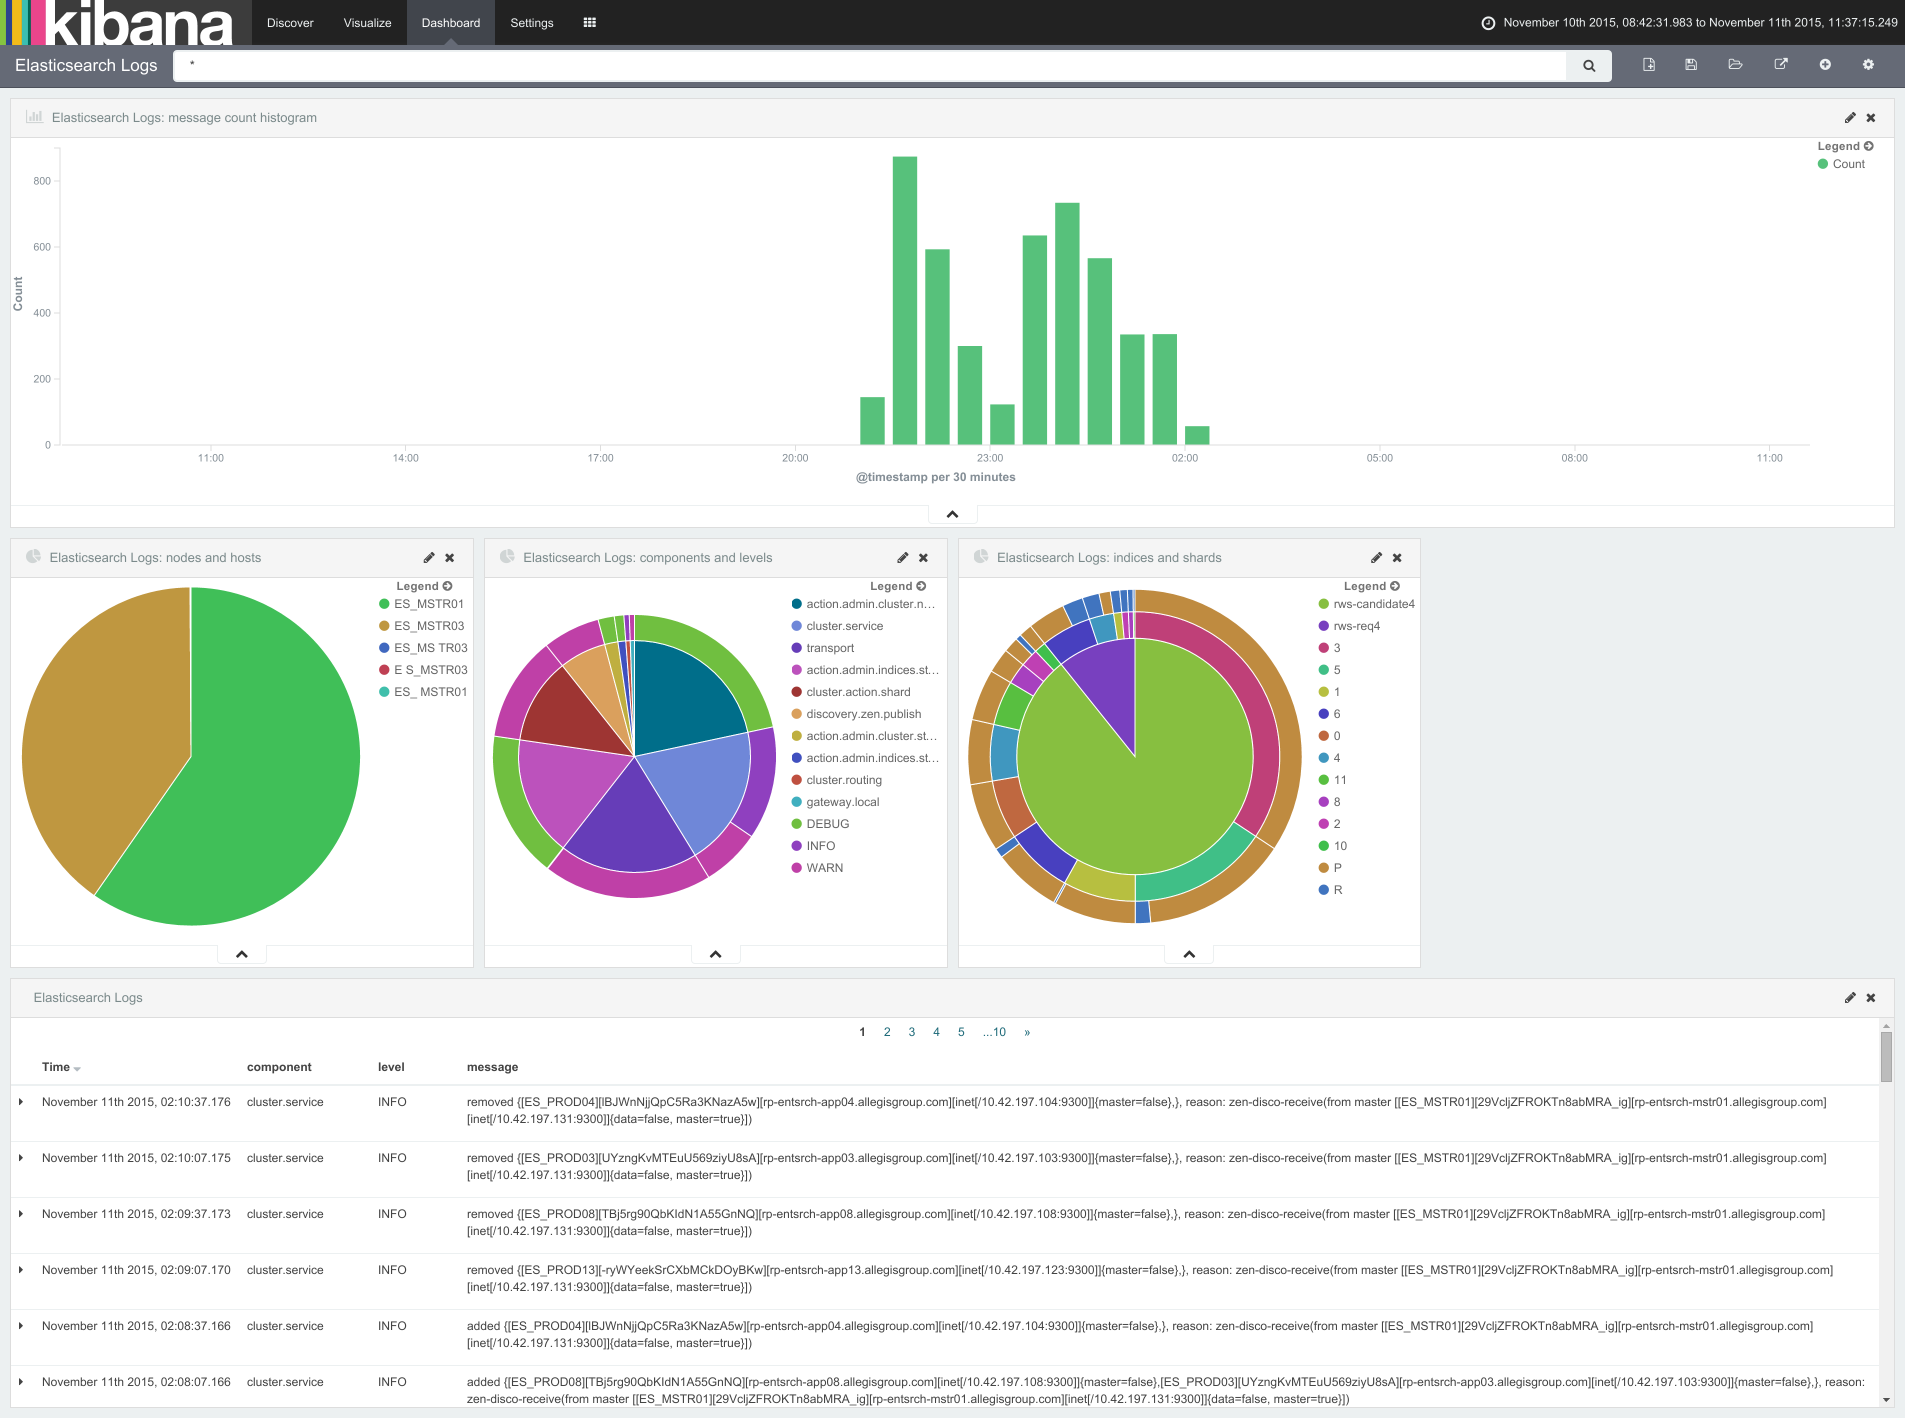
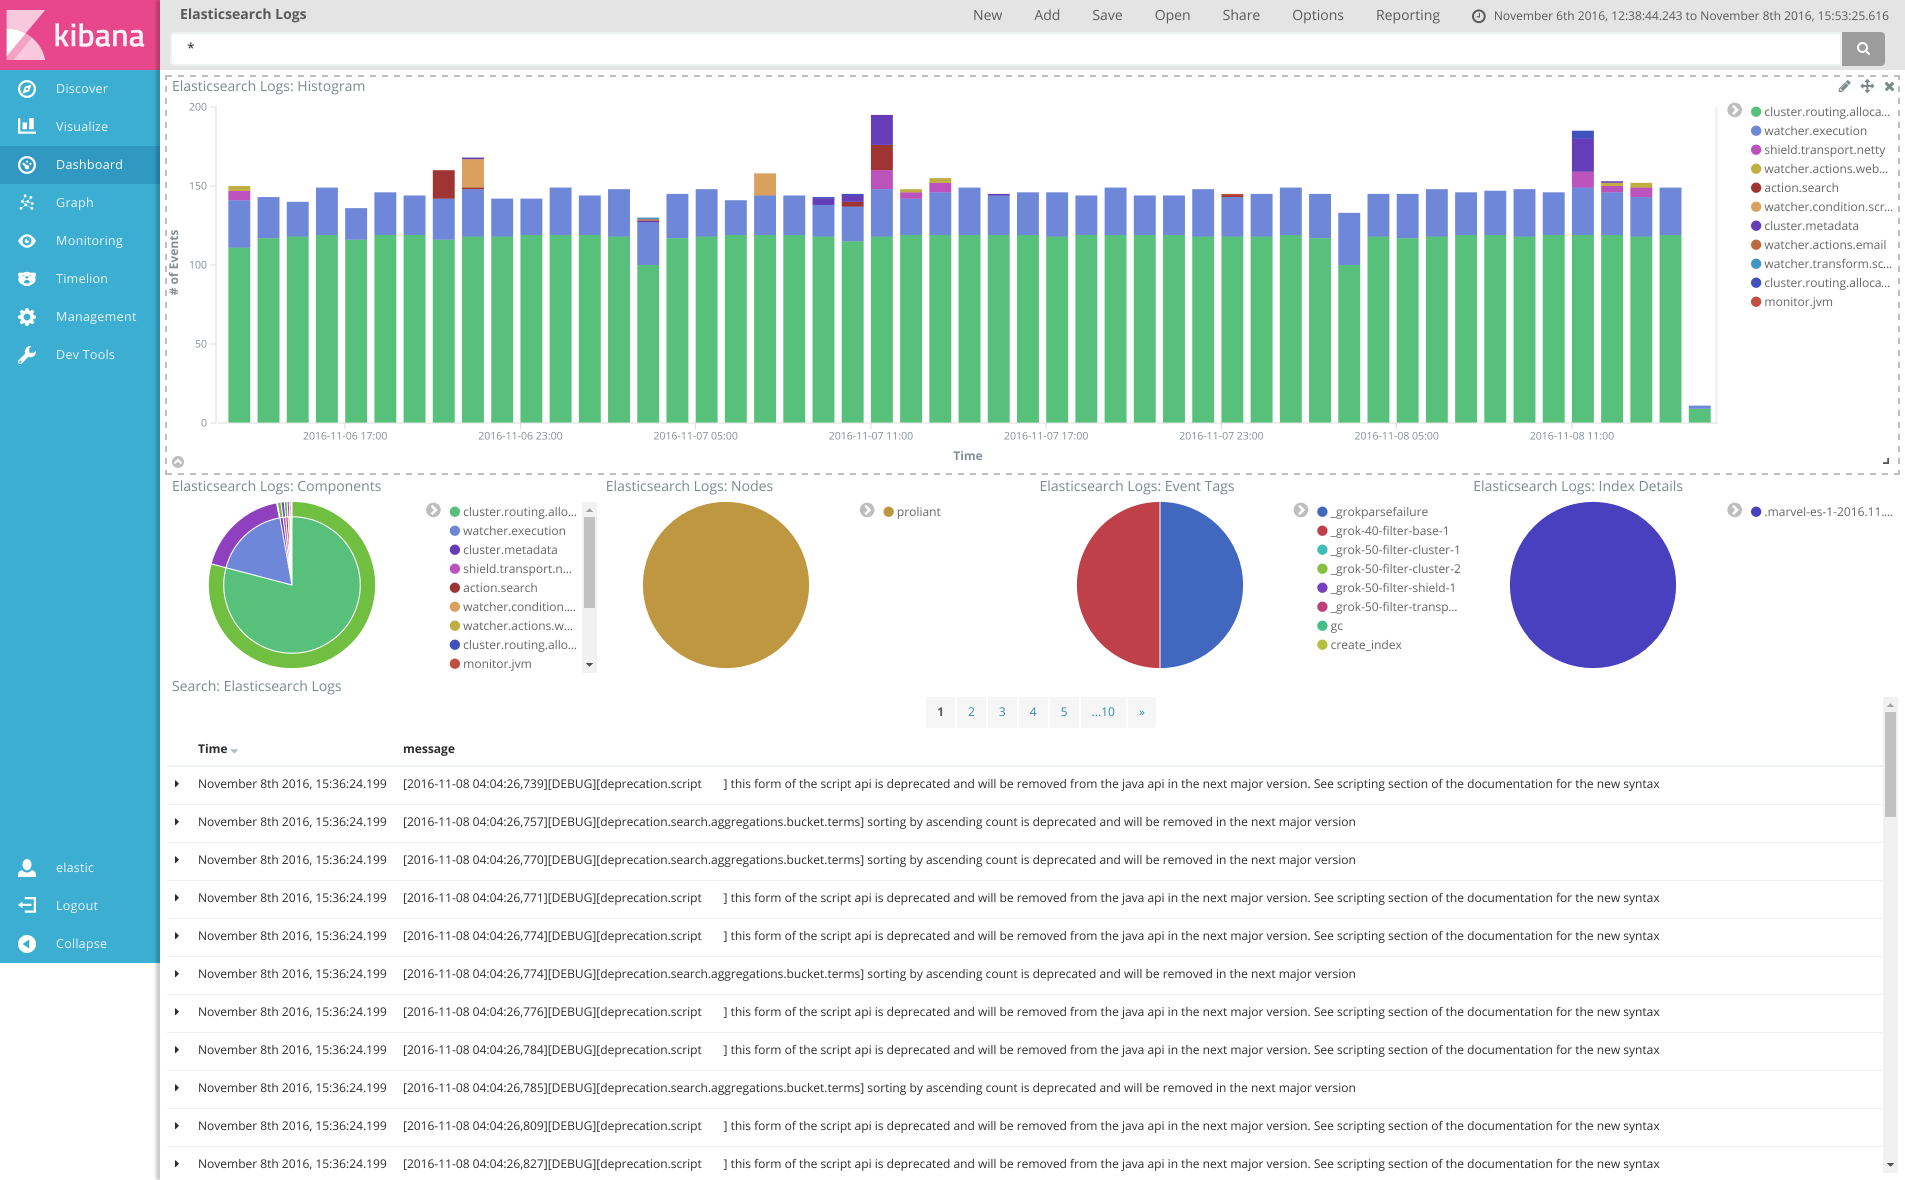
Update screenshot and Kibana exports.  Minor cosmetic script adjustments.

diff --git a/README.md b/README.md
@@ -9,9 +9,9 @@ Kibana.  See the following screenshot for what it looks like:
 
 ### Requirements
 
-* Elasticsearch 2.1.x or higher
-* Kibana 4.3.x or higher
-* Logstash 2.1.x or higher
+* Elasticsearch 5.x or higher
+* Kibana 5.x or higher
+* Logstash 5.x or higher
 
 ### Setup
 
@@ -21,7 +21,7 @@ Load the Elasticsearch mapping template in
 `elasticsearch/elasticsearch-template.json`:
 
 ```
-curl -XPUT <eshost>:<esport>/_template/es-logs -d @elasticsearch/elasticsearch-template.json
+curl -XPUT <eshost>:<esport>/_template/es-logs -d @elasticsearch/elasticsearch-template-5x.json
 ```
 
 Replace `<eshost>` and `<esport>` to your Elasticsearch ip/host and
